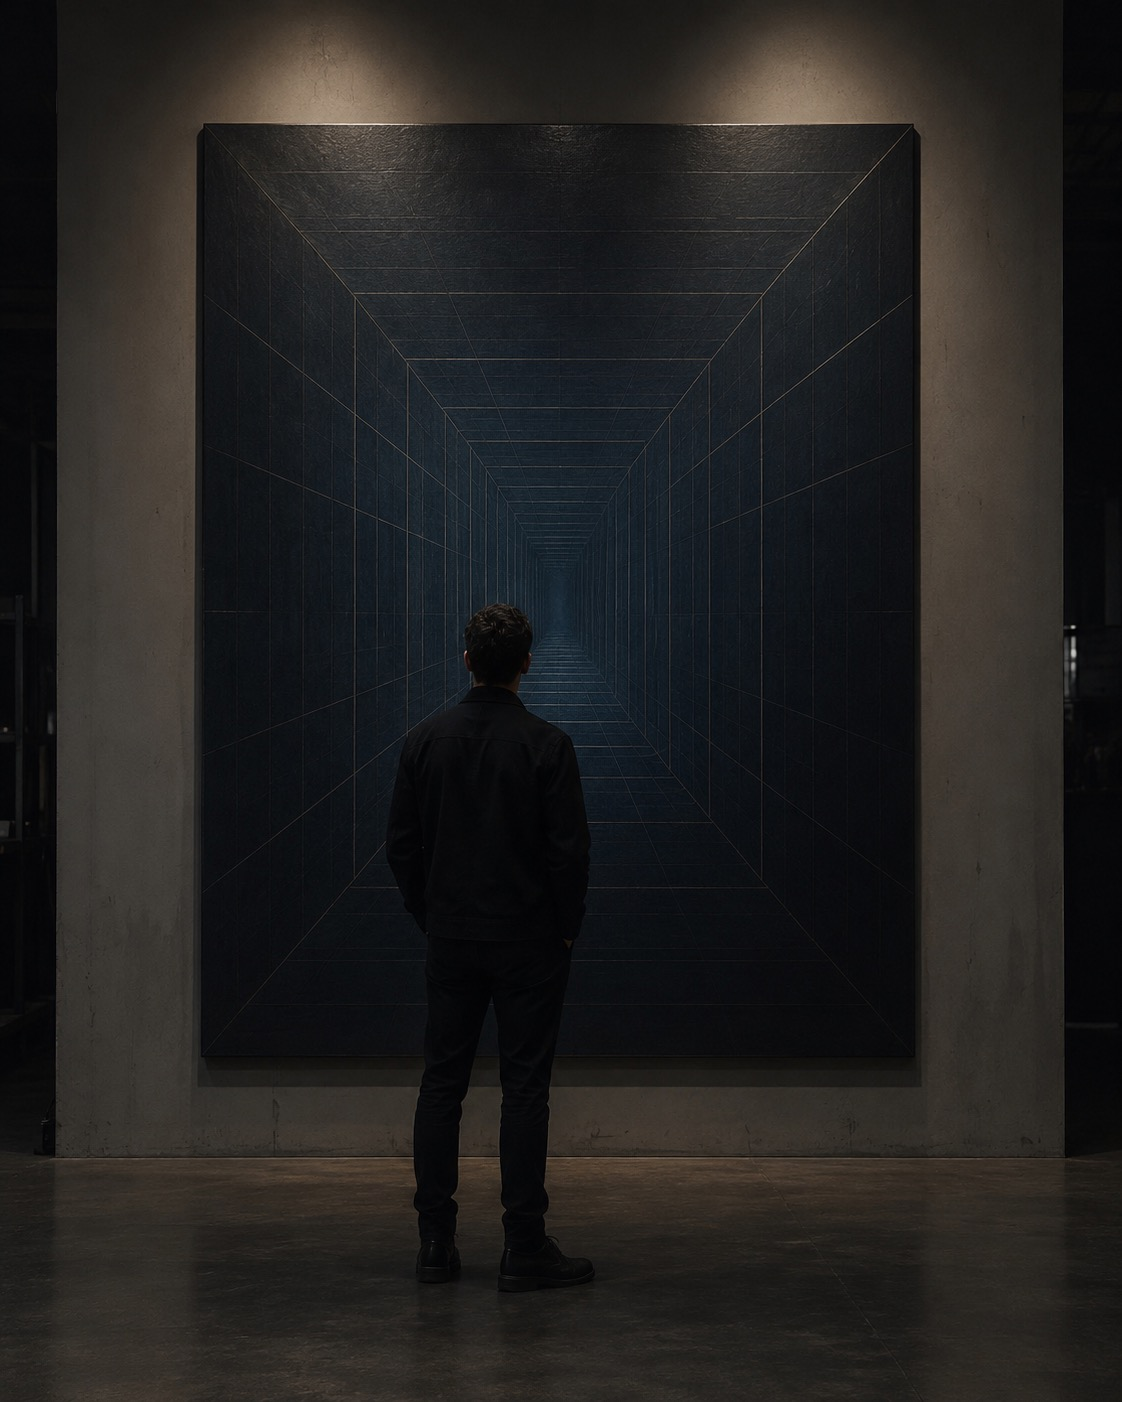
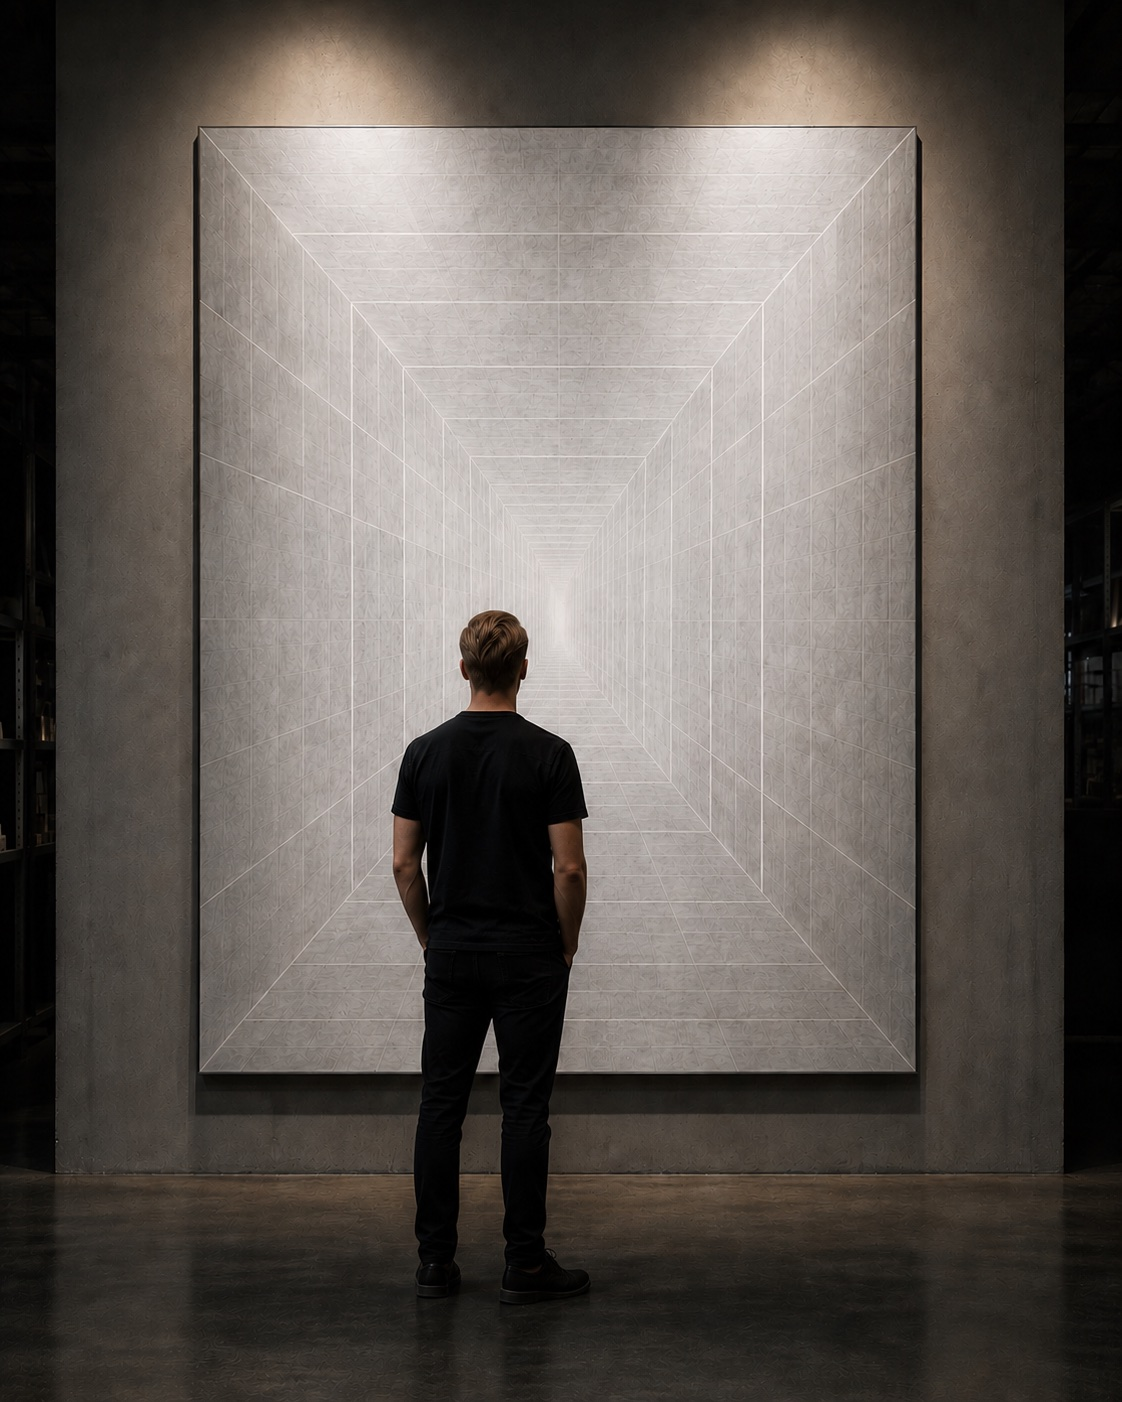
About: new silver-style portrait; reliable centered jump to #private-view
- about image swapped to newest studio shot (artist before a silver perspective work), matches the brand technique
- #private-view: scroll-margin-top 0 + JS re-centers the section on direct load (after layout/images settle), on same-page link click (smooth), and on hashchange, so /#private-view always lands full-height and centered. Page is layout-shift-free (hero 100svh, card-img aspect-ratio fixed). Cache-bust include.js v40 -> v41.

diff --git a/assets/include.js b/assets/include.js
@@ -115,6 +115,35 @@
     onScroll();
   }
 
+  function wireAnchorScroll() {
+    var TARGET = "private-view";
+    function isTarget(hash) { return hash === "#" + TARGET; }
+    function center(smooth) {
+      var el = document.getElementById(TARGET);
+      if (el) el.scrollIntoView({ block: "center", behavior: smooth ? "smooth" : "auto" });
+    }
+    // Same-page clicks to the section: smooth-center instead of native jump.
+    document.addEventListener("click", function (e) {
+      var a = e.target.closest("a[href]");
+      if (!a) return;
+      var url;
+      try { url = new URL(a.getAttribute("href"), location.href); } catch (_) { return; }
+      if (!isTarget(url.hash)) return;
+      var samePage = url.pathname.replace(/index\.html$/, "") === location.pathname.replace(/index\.html$/, "");
+      if (!samePage) return; // cross-page link: let it navigate, load handler centers it
+      e.preventDefault();
+      if (location.hash !== url.hash) history.pushState(null, "", url.hash);
+      center(true);
+    });
+    window.addEventListener("hashchange", function () { if (isTarget(location.hash)) center(true); });
+    // Direct load of /#private-view: re-center after layout/images settle.
+    if (isTarget(location.hash)) {
+      center(false);
+      window.addEventListener("load", function () { setTimeout(function () { center(false); }, 60); });
+      setTimeout(function () { center(false); }, 350);
+    }
+  }
+
   function init() {
     var h = document.getElementById("site-header");
     var f = document.getElementById("site-footer");
@@ -125,6 +154,7 @@
     wireScrollCue();
     wireHeaderScroll();
     wireHeroFade();
+    wireAnchorScroll();
   }
 
   if (document.readyState === "loading") document.addEventListener("DOMContentLoaded", init);

diff --git a/about.html b/about.html
@@ -38,7 +38,7 @@
 
     <div class="about-grid">
       <div class="about-img">
-        <img src="/assets/about-portrait.jpg?v=19" alt="Benjamin Cahillane before a large-format work">
+        <img src="/assets/about-portrait.jpg?v=20" alt="Benjamin Cahillane before a large-format silver work">
         <div class="about-pv">
           <div class="eyebrow">The Private View</div>
           <p>See new work before anyone else.</p>
@@ -81,6 +81,6 @@
 </main>
 
 <div id="site-footer"></div>
-<script src="/assets/include.js?v=40" defer></script>
+<script src="/assets/include.js?v=41" defer></script>
 </body>
 </html>

diff --git a/index.html b/index.html
@@ -26,7 +26,7 @@
   .hero-headline{font-family:var(--display);font-weight:600;font-size:clamp(34px,5.6vw,60px);line-height:1.16;letter-spacing:.14em;color:var(--ink-bright);}
   .hero-headline span{display:block;}
   .hero-cta{margin-top:36px;align-self:flex-start;}
-  #private-view{scroll-margin-top:72px;min-height:100svh;display:flex;align-items:center;}
+  #private-view{scroll-margin-top:0;min-height:100svh;display:flex;align-items:center;}
   #private-view > .wrap{width:100%;}
   .pv-card{position:relative;max-width:600px;margin:0 auto;border:1px solid rgba(233,231,226,.22);padding:60px 48px;text-align:center;background:rgba(255,255,255,.012);}
   .pv-card .pv-c{position:absolute;width:10px;height:10px;border:1px solid rgba(233,231,226,.45);}
@@ -110,6 +110,6 @@
 </section>
 
 <div id="site-footer"></div>
-<script src="/assets/include.js?v=40" defer></script>
+<script src="/assets/include.js?v=41" defer></script>
 </body>
 </html>

diff --git a/contact.html b/contact.html
@@ -44,6 +44,6 @@
 </main>
 
 <div id="site-footer"></div>
-<script src="/assets/include.js?v=40" defer></script>
+<script src="/assets/include.js?v=41" defer></script>
 </body>
 </html>

diff --git a/edition/dimension-eight.html b/edition/dimension-eight.html
@@ -43,6 +43,6 @@
   </div>
 </main>
 <div id="site-footer"></div>
-<script src="/assets/include.js?v=40" defer></script>
+<script src="/assets/include.js?v=41" defer></script>
 </body>
 </html>

diff --git a/edition/dimension-eleven.html b/edition/dimension-eleven.html
@@ -43,6 +43,6 @@
   </div>
 </main>
 <div id="site-footer"></div>
-<script src="/assets/include.js?v=40" defer></script>
+<script src="/assets/include.js?v=41" defer></script>
 </body>
 </html>

diff --git a/edition/dimension-five.html b/edition/dimension-five.html
@@ -43,6 +43,6 @@
   </div>
 </main>
 <div id="site-footer"></div>
-<script src="/assets/include.js?v=40" defer></script>
+<script src="/assets/include.js?v=41" defer></script>
 </body>
 </html>

diff --git a/edition/dimension-four.html b/edition/dimension-four.html
@@ -43,6 +43,6 @@
   </div>
 </main>
 <div id="site-footer"></div>
-<script src="/assets/include.js?v=40" defer></script>
+<script src="/assets/include.js?v=41" defer></script>
 </body>
 </html>

diff --git a/edition/dimension-nine.html b/edition/dimension-nine.html
@@ -43,6 +43,6 @@
   </div>
 </main>
 <div id="site-footer"></div>
-<script src="/assets/include.js?v=40" defer></script>
+<script src="/assets/include.js?v=41" defer></script>
 </body>
 </html>

diff --git a/edition/dimension-one.html b/edition/dimension-one.html
@@ -43,6 +43,6 @@
   </div>
 </main>
 <div id="site-footer"></div>
-<script src="/assets/include.js?v=40" defer></script>
+<script src="/assets/include.js?v=41" defer></script>
 </body>
 </html>

diff --git a/edition/dimension-seven.html b/edition/dimension-seven.html
@@ -43,6 +43,6 @@
   </div>
 </main>
 <div id="site-footer"></div>
-<script src="/assets/include.js?v=40" defer></script>
+<script src="/assets/include.js?v=41" defer></script>
 </body>
 </html>

diff --git a/edition/dimension-six.html b/edition/dimension-six.html
@@ -43,6 +43,6 @@
   </div>
 </main>
 <div id="site-footer"></div>
-<script src="/assets/include.js?v=40" defer></script>
+<script src="/assets/include.js?v=41" defer></script>
 </body>
 </html>